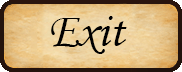
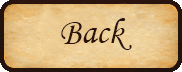
Fix bug with windows. Update exit sprite in Rules

diff --git a/MainMenu.py b/MainMenu.py
@@ -1,4 +1,7 @@
 import pygame, sys, os
+from Game import game
+from Rules import rules
+
 
 # Screen
 pygame.init()
@@ -118,7 +121,7 @@ def main():
                         transparency()
                     btn_start.action = False
                     btn_start.image = load_image('Button_start_1.png', -1)
-                    import Game
+                    game()
                 
                 if btn_options.action:
                     for i in range(11):
@@ -131,9 +134,14 @@ def main():
                     for i in range(11):
                         pygame.time.delay(50)
                         transparency()
-                    btn_options.action = False
-                    btn_options.image = load_image('Button_rules_1.png', -1)
-                    import Rules
+                    btn_rules.action = False
+                    btn_rules.image = load_image('Button_rules_1.png', -1)
+                    rules()
+
+                    # Screen
+                    screen.fill((20, 20, 20))
+                    fon = pygame.transform.scale(load_image('book.png'), (w, h))
+                    screen.blit(fon, (0, 0))
                 
                 if btn_exit.action:
                     for i in range(11):

diff --git a/Rules.py b/Rules.py
@@ -81,8 +81,10 @@ def rules():
     font = pygame.font.Font(None, 30)
     text_coord = 50
 
+    close_window = False
+
     # Button
-    btn_exit = Button(400, 340, 1)
+    btn_exit = Button(550, 450, 1)
 
     rule_text = ["Правила", "",
                   "Это коллекционно карточная игра, где тебе надо составить",
@@ -125,11 +127,10 @@ def rules():
                         transparency()
                     btn_exit.action = False
                     btn_exit.image = load_image('Exit_rules.png', -1)
-                    import MainMenu
+                    close_window = True
 
+        if close_window:
+            break
+                    
         all_sprites.draw(screen)
         pygame.display.flip()
-
-
-
-rules()

diff --git a/Game.py b/Game.py
@@ -99,5 +99,3 @@ def game():
 
         clock.tick(fps)
         pygame.display.flip()
-
-game()
